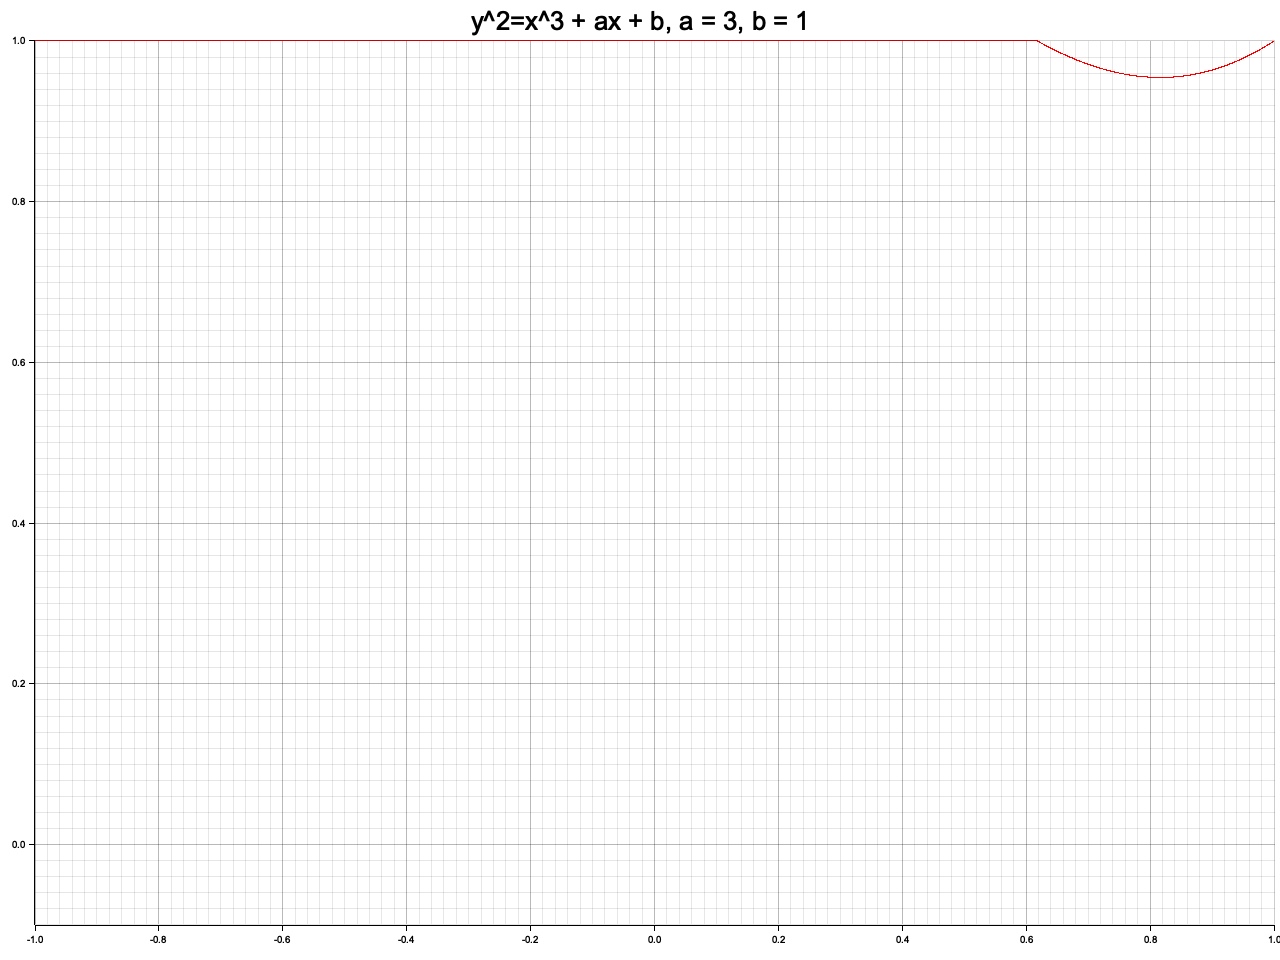
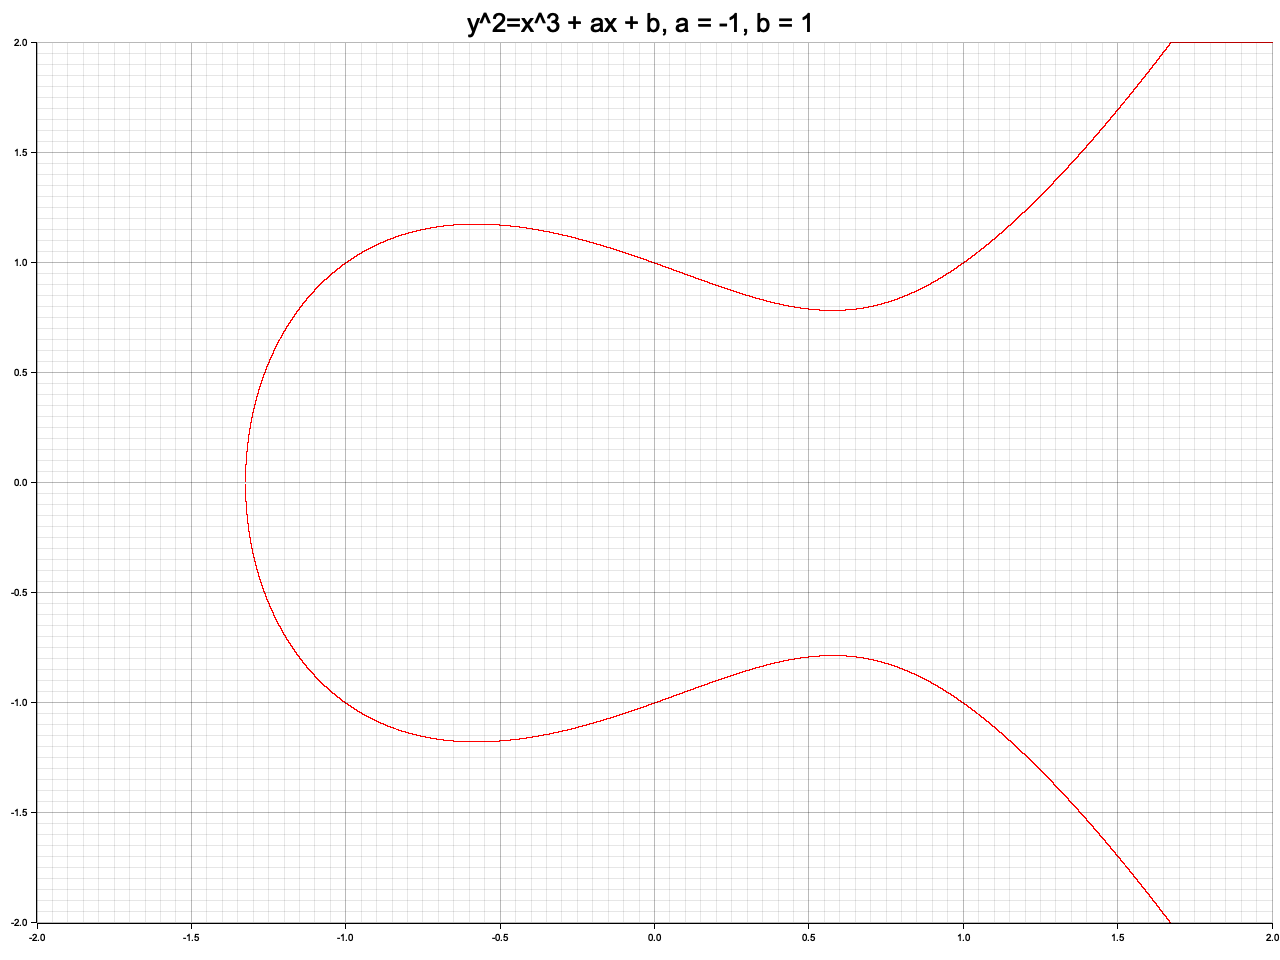
feat: correct plot zoom and cleanup - better handling of undefined values - lower rendering cost by using symmetric property of the elliptic curve - introduce zooming logic

Changed region(s): [[0.0, 0.0, 1.0, 0.9688]]

diff --git a/src/main.rs b/src/main.rs
@@ -1,37 +1,50 @@
+use plotters::prelude::*;
 use std::ops::RangeInclusive;
 
-use plotters::prelude::*;
-// A and B must satisfy discriminant != 0 to avoid self-intersections
+// condition equation must satisfy discriminant != 0 to avoid self-intersections
 // (https://en.wikipedia.org/wiki/Elliptic_curve)
-const A: f32 = -2.0;
-const B: f32 = 2.0;
-const RANGE: std::ops::Range<f32> = -2500f32..2500f32; //lazy
+const A: f32 = -1.0;
+const B: f32 = 1.0;
+
+const RANGE: f32 = 100000.0;
+const REVERSE_ZOOM: f32 = 2.0;
+
+fn elliptic(x: f32) -> Option<f32> {
+    let result = x.powi(3) + A * x + B;
+    if result >= 0.0 {
+        Some(result.sqrt())
+    } else {
+        None
+    }
+}
 
 fn main() -> Result<(), Box<dyn std::error::Error>> {
     let root = BitMapBackend::new("plot/0.png", (1280, 960)).into_drawing_area();
     root.fill(&WHITE)?;
     let mut chart = ChartBuilder::on(&root)
         .caption(
-            "y^2=x^3 + ax + b, a = 3, b = 1",
+            format!("y^2=x^3 + ax + b, a = {}, b = {}", A, B),
             ("sans-serif", 32).into_font(),
         )
-        .margin(5)
+        .margin(7)
         .x_label_area_size(30)
         .y_label_area_size(30)
-        .build_cartesian_2d(-1f32..1f32, -0.1f32..1f32)?;
+        .build_cartesian_2d(-REVERSE_ZOOM..REVERSE_ZOOM, -REVERSE_ZOOM..REVERSE_ZOOM)?;
 
-    let result = chart.draw_series(LineSeries::new(
-        RangeInclusive::new(RANGE.start as i32, RANGE.end as i32)
-            .map(|x| x as f32 / RANGE.end)
-            .map(|x| (x, (x * x * x + A * x + B).sqrt())),
+    let points: Vec<f32> = RangeInclusive::new(-RANGE as i32, RANGE as i32)
+        .map(|x| x as f32 * REVERSE_ZOOM / RANGE)
+        .collect();
+
+    chart.draw_series(LineSeries::new(
+        points.iter().filter_map(|&x| elliptic(x).map(|y| (x, y))),
         &RED,
-    ));
-    if result.is_ok() {
-        chart.configure_mesh().draw()?;
-        root.present()?;
-        Ok(())
-    } else {
-        eprint!("couldn't plot function");
-        Ok(())
-    }
+    ))?;
+
+    chart.draw_series(LineSeries::new(
+        points.iter().filter_map(|&x| elliptic(x).map(|y| (x, -y))),
+        &RED,
+    ))?;
+    chart.configure_mesh().draw()?;
+    root.present()?;
+    Ok(())
 }
